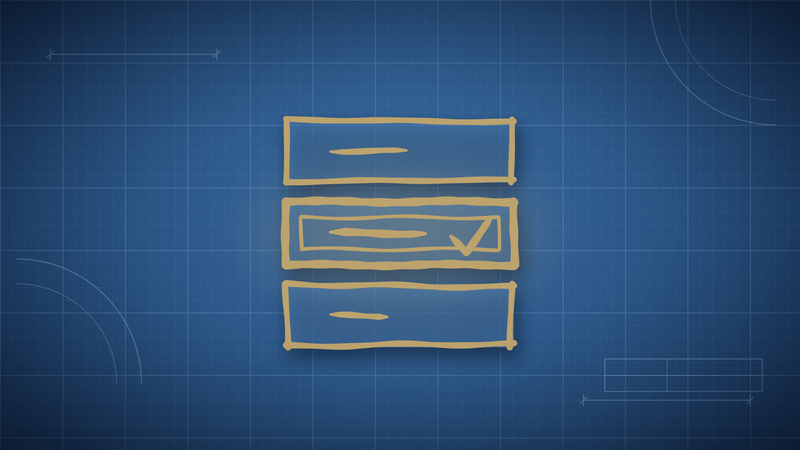
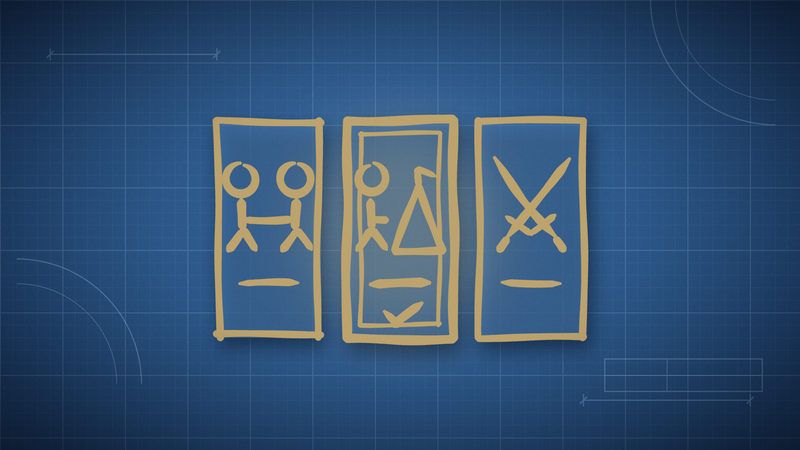
The cover shows the modes as three cards side by side: Co-op, PvE and PvP, each with a picture

Changed region(s): [[0.25, 0.2489, 0.75, 0.8089]]

diff --git a/Tools/make_cover.py b/Tools/make_cover.py
@@ -22,7 +22,7 @@ sys.path.insert(0, str(TE / "Models" / "Icons"))
 import make_icons as mi  # noqa: E402
 
 W, H = 1920, 1080
-ART = 760                       # the drawing's square
+ART = 1000                      # the drawing's square
 mi.SIZE = ART
 mi.SCALE = ART * mi.SS / 100
 
@@ -76,23 +76,47 @@ def background():
     return img
 
 
+def figure(g, x, y, w=2.8):
+    """A settler standing with its feet at y, 20 high."""
+    g.circle(x, y - 17, 3.6, w=w)
+    g.line((x, y - 12), (x, y - 5), w=w + 0.4)
+    g.line((x, y - 5), (x - 3.5, y), w=w)
+    g.line((x, y - 5), (x + 3.5, y), w=w)
+
+
 def drawing():
-    """The three buttons, 100 grid. Returns the strokes and the buttons' fill."""
+    """Three cards side by side, the game mode list: Co-op, PvE and PvP, PvE picked. 100 grid.
+    Returns the strokes and the cards' fill."""
     g = mi.Glyph()
-    rows = [(14, 34), (40, 60), (66, 86)]
+    top, bottom = 24, 76
     fill = []
-    for n, (top, bottom) in enumerate(rows):
+    for n, (left, right) in enumerate(((6, 31), (37.5, 62.5), (69, 94))):
         picked = n == 1
-        left, right = 14, 86
-        g.line((left, top), (right, top), (right, bottom), (left, bottom), (left, top), taper=False, w=3.6 if picked else 2.6)
+        cx = (left + right) / 2
+        g.line((left, top), (right, top), (right, bottom), (left, bottom), (left, top), taper=False, w=3.2 if picked else 2.4)
         fill.append([(left, top), (right, top), (right, bottom), (left, bottom)])
-        mid = (top + bottom) / 2
-        # The button's name, as a stroke
-        g.line((28, mid), (58 if picked else 52 - 6 * (n == 2), mid), w=3.4 if picked else 2.6)
+        # Its picture: Co-op, two settlers side by side holding hands; PvE, a settler and a bandit camp; PvP, crossed swords
+        if n == 0:
+            figure(g, cx - 6.5, 55)
+            figure(g, cx + 6.5, 55)
+            g.line((cx - 6.5, 47.5), (cx + 6.5, 47.5), w=2.6)
+        elif n == 1:
+            figure(g, cx - 7, 55)
+            g.line((cx - 7, 47.5), (cx - 3, 47.5), w=2.6)
+            g.line((cx - 1, 55), (cx + 4.5, 40), (cx + 10, 55), (cx - 1, 55), taper=False, w=2.6)
+            g.line((cx + 4.5, 40), (cx + 4.5, 36), (cx + 8.5, 37.5), w=2.2)
+        else:
+            for d in (-1, 1):
+                # A blade from the top corner down to its hilt, with the guard across and the grip past it
+                g.line((cx + 9 * d, 33), (cx - 6 * d, 52), w=2.8)
+                g.line((cx - 2.8 * d - 3 * d, 46.8), (cx - 2.8 * d + 3 * d, 51.2), w=2.4)
+                g.line((cx - 6 * d, 52), (cx - 8 * d, 55), w=3)
+        # The card's name, as a stroke
+        g.line((cx - 7, 63), (cx + 7, 63), w=3.2 if picked else 2.4)
         if picked:
-            # A second outline inside, and the check on the right
-            g.line((19, top + 5), (81, top + 5), (81, bottom - 5), (19, bottom - 5), (19, top + 5), taper=False, w=1.6)
-            g.line((66, mid + 1), (71, mid + 6), (79, mid - 5), w=3.4)
+            # A second outline inside, and the check on the corner
+            g.line((left + 3, top + 3), (right - 3, top + 3), (right - 3, bottom - 3), (left + 3, bottom - 3), (left + 3, top + 3), taper=False, w=1.5)
+            g.line((cx - 4, 70), (cx - 1, 73), (cx + 5, 67.5), w=2.8)
     return g, fill
 
 
@@ -108,7 +132,7 @@ def main():
         ImageDraw.Draw(paper).polygon([(x * mi.SCALE, y * mi.SCALE) for x, y in button], fill=255)
     paper = paper.resize((ART, ART), Image.LANCZOS)
 
-    ox, oy = (W - ART) // 2, (H - ART) // 2 + 20
+    ox, oy = (W - ART) // 2, (H - ART) // 2 + 10
     layer = Image.new("RGBA", (W, H), (0, 0, 0, 0))
 
     shadow = Image.new("L", (W, H), 0)
@@ -124,7 +148,7 @@ def main():
 
     # A glow behind the picked button
     glow = Image.new("L", (W, H), 0)
-    ImageDraw.Draw(glow).ellipse([W / 2 - 330, oy + 250, W / 2 + 330, oy + 510], fill=120)
+    ImageDraw.Draw(glow).ellipse([W / 2 - 230, oy + 250, W / 2 + 230, oy + 750], fill=120)
     glow = glow.filter(ImageFilter.GaussianBlur(70))
     warm = Image.new("RGBA", (W, H), (230, 200, 130, 0))
     warm.putalpha(glow.point(lambda v: int(v * 0.5)))
